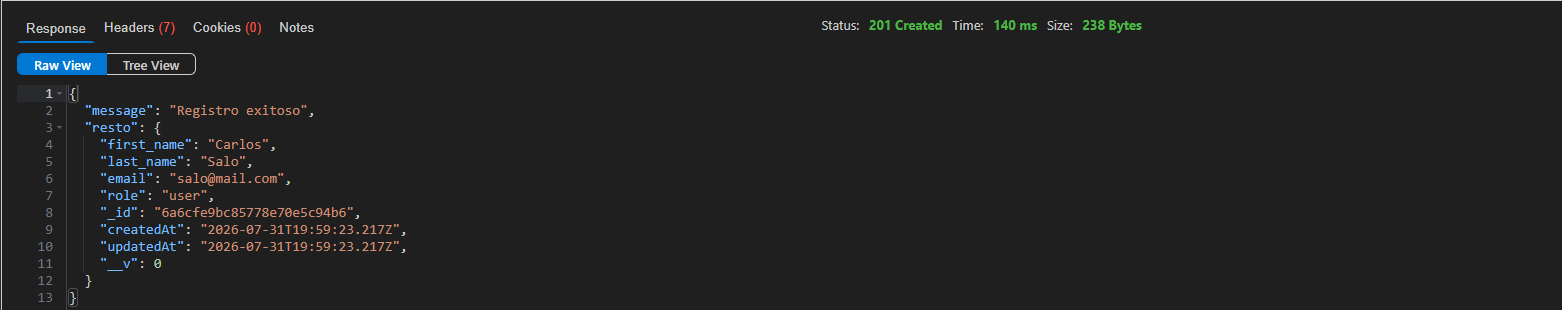
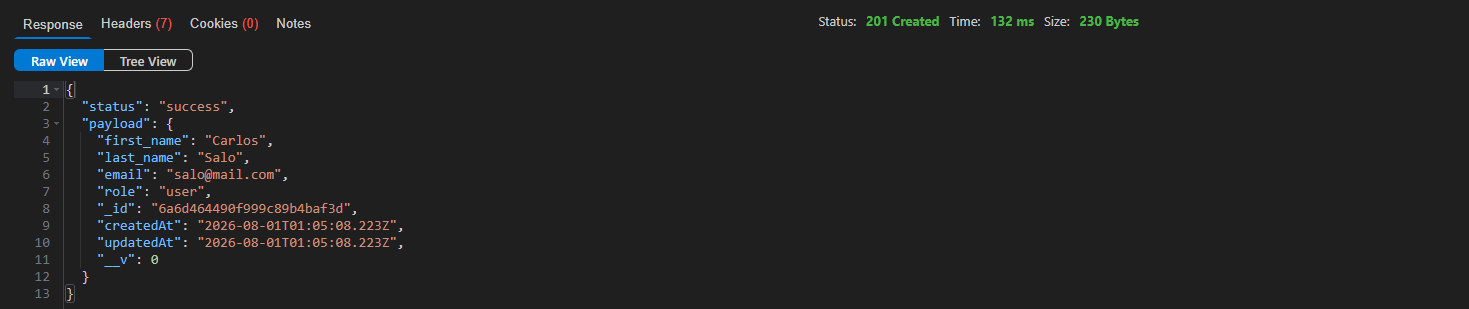
imgs/register

Changed region(s): [[0.0, 0.0583, 0.2757, 0.9903], [0.0, 0.0, 1.0, 0.1165]]

diff --git a/src/controllers/sessions.controller.js b/src/controllers/sessions.controller.js
@@ -44,7 +44,7 @@ const Sessionsregister = async (request, response) => { //REGISTER
         const resto = userDto(newUser.toObject());
 
         response.setHeader('Content-Type', 'application/json');
-        response.status(201).json({ message: 'Registro exitoso', resto });
+        response.status(201).json({ status: 'success', payload: resto });
 
     } catch (error) {
         response.setHeader('Content-Type', 'application/json');

diff --git a/README.md b/README.md
@@ -93,17 +93,17 @@ Content-Type: application/json
 
 ```json
 {
-  "message": "Registro exitoso",
-  "resto": {
-    "first_name": "Amelia",
-    "last_name": "Perez",
-    "email": "amelia@mail.com",
-    "role": "user",
-    "_id": "6a6cf7b577f3e640583b5cb5",
-    "createdAt": "2026-07-31T19:29:57.297Z",
-    "updatedAt": "2026-07-31T19:29:57.297Z",
-    "__v": 0
-  }
+    "status": "success",
+    "payload": {
+        "first_name": "Amelia",
+        "last_name": "Perez",
+        "email": "amelia@mail.com",
+        "role": "user",
+        "_id": "6a6cf7b577f3e640583b5cb5",
+        "createdAt": "2026-07-31T19:29:57.297Z",
+        "updatedAt": "2026-07-31T19:29:57.297Z",
+        "__v": 0      
+    }
 }
 ```
 
